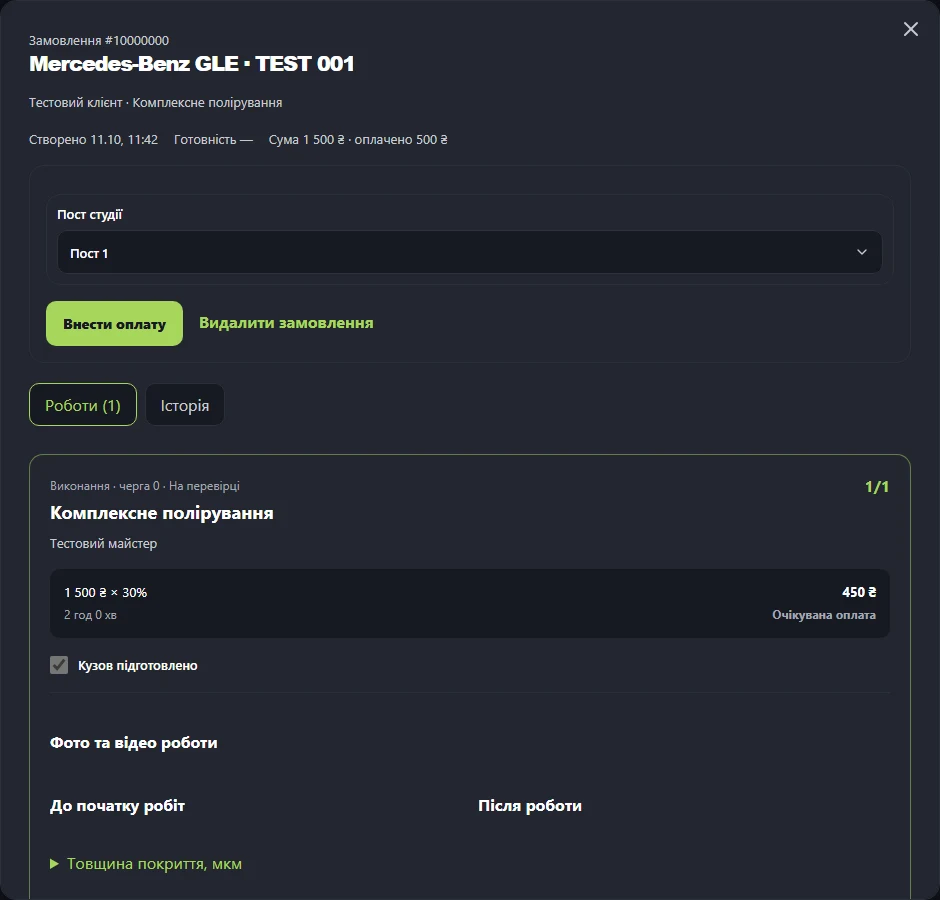
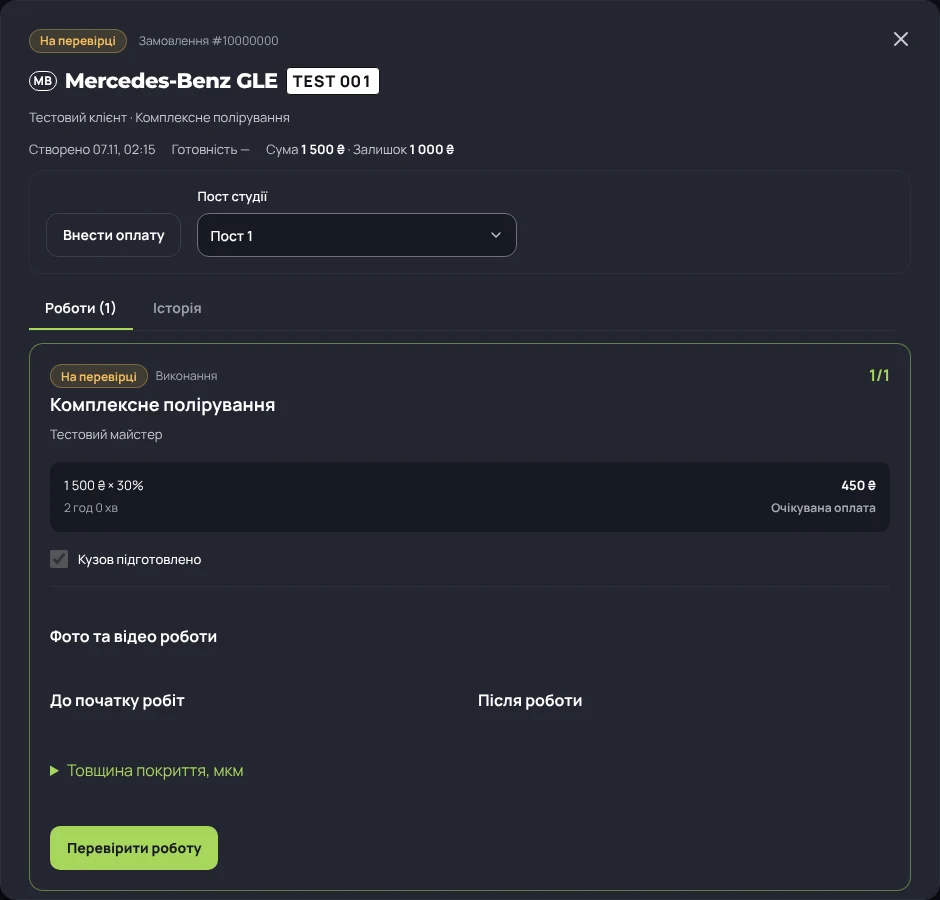
Landing: plan buttons aligned, demo screenshots retaken from the redesigned UI
Claude-Session: https://claude.ai/code/session_011PT1HPfmgt7wPQJTRGkDCR

diff --git a/src/landing.css b/src/landing.css
@@ -1,4 +1,4 @@
-.landing{background:var(--color-bg);color:var(--color-text);font:400 15px/1.65 Manrope,system-ui,sans-serif;--lp-accent:var(--color-accent)}.landing *{box-sizing:border-box;min-width:0}.landing a{color:inherit;text-decoration:none}.landing h1,.landing h2,.landing h3,.landing p,.landing figure{margin:0}.landing h1,.landing h2,.landing h3{color:var(--color-text);line-height:1.18}.landing h1{font-size:clamp(40px,4.6vw,66px);letter-spacing:-2.5px}.landing h2{font-size:clamp(29px,3vw,43px);letter-spacing:-1.3px}.landing h3{font-size:20px}.landing p{color:var(--color-text-secondary);overflow-wrap:anywhere}.lp-wrap{width:min(1280px,calc(100% - 64px));margin-inline:auto}.landing .lp-eyebrow{color:var(--color-accent);letter-spacing:1.7px;font-size:var(--text-xs);font-weight:700;text-transform:uppercase;margin-bottom:20px}.lp-header{position:sticky;top:0;z-index:30;background:#171a22f5;border-bottom:1px solid var(--color-border)}.lp-header-inner{display:flex;align-items:center;gap:24px;min-height:84px}.landing .lp-brand{display:flex;align-items:center;gap:12px;font-size:26px;font-weight:800;letter-spacing:-1px;margin-right:auto}.lp-brand i{width:10px;height:10px;flex-shrink:0;border-radius:50%;background:var(--color-accent);box-shadow:0 0 0 5px #a7d65c15}.lp-nav{display:flex;align-items:center;gap:22px;font-size:12px}.lp-nav>a{padding-block:10px}.lp-nav a:hover,.lp-secondary:hover{color:var(--color-accent)}.landing .lp-button{display:inline-flex;align-items:center;justify-content:center;gap:14px;background:var(--color-accent);color:var(--color-on-accent);border:1px solid var(--color-accent);border-radius:10px;padding:14px 20px;font-weight:800;line-height:1.5;min-height:50px;text-align:center}.landing .lp-button:hover{background:#b9e579}.landing .lp-button-small{font-size:12px;padding:11px 14px;min-height:44px}.landing button,.landing a{touch-action:manipulation}.landing .lp-menu-toggle{display:none;background:var(--color-surface);border:1px solid var(--color-border);color:var(--color-text);border-radius:10px;width:44px;height:44px;align-items:center;justify-content:center;padding:0}.lp-skip{position:fixed;top:-80px;left:16px;background:var(--color-accent);color:var(--color-on-accent)!important;padding:12px;z-index:100}.lp-skip:focus{top:12px}.lp-hero{display:grid;grid-template-columns:minmax(0,1fr) minmax(0,1.1fr);gap:50px;align-items:center;padding-block:88px}.landing .lp-lead{font-size:17px;line-height:1.8;margin-top:28px}.lp-actions{display:flex;flex-wrap:wrap;align-items:center;gap:22px;margin-top:30px}.lp-secondary{display:inline-flex;align-items:center;gap:10px;min-height:44px}.landing .lp-note{font-size:12px;margin-top:22px;line-height:1.8}.lp-product{border-radius:14px;border:1px solid var(--color-border);background:var(--color-surface);box-shadow:0 25px 75px #0003;overflow:hidden}.lp-product img{width:100%;height:auto;display:block}.lp-product figcaption{font-size:var(--text-xs);color:var(--color-text-secondary);padding:12px 18px}.lp-section{padding-block:65px;scroll-margin-top:100px}.lp-section>.ui-page-header{margin-bottom:32px}.lp-transfer{display:grid;grid-template-columns:1fr 1fr;gap:64px;background:var(--color-surface);border:1px solid var(--color-border);padding:40px;border-radius:16px}.lp-transfer h2+p{margin-top:24px}.lp-transfer ol{padding:0;margin:0;list-style:none;display:grid;gap:26px}.lp-transfer li{display:flex;gap:20px}.lp-transfer li>span{color:var(--color-accent)}.lp-transfer h3{font-size:17px;margin-bottom:8px}.lp-transfer li p{font-size:13px}.lp-comparison-result{display:flex;gap:12px;align-items:flex-start}.lp-comparison-result svg{color:var(--color-accent);flex-shrink:0;margin-top:4px}.lp-workflow-grid{display:grid;grid-template-columns:repeat(2,minmax(0,1fr));gap:24px}.lp-step{border:1px solid var(--color-border);border-radius:14px;background:var(--color-surface);overflow:hidden}.lp-step>div{padding:28px}.lp-step h3+p{margin-top:12px;font-size:14px}.lp-step>a{display:block;background:var(--color-bg);margin:0 22px;border:1px solid var(--color-border);border-bottom:0;border-radius:10px 10px 0 0;overflow:hidden}.lp-step img{width:100%;height:330px;object-fit:cover;object-position:top;display:block}.lp-roles{margin-top:24px;padding:28px;background:var(--color-surface);border:1px solid var(--color-border);border-radius:14px;display:grid;gap:20px}.lp-roles .ui-tabs{justify-content:flex-start}.landing .billing-plan{background:var(--color-surface);color:var(--color-text)}.landing .billing-plan p{margin:0}.landing .billing-plan h2{font-size:27px;letter-spacing:-.5px}.landing .billing-plan a.primary{display:block;background:var(--color-accent);color:var(--color-on-accent);text-align:center;border-radius:10px;padding:13px;font-weight:800}.lp-faq{display:grid;grid-template-columns:1fr 1.3fr;gap:65px;border-top:1px solid var(--color-border)}.lp-faq details{border-bottom:1px solid var(--color-border)}.lp-faq summary{cursor:pointer;display:flex;align-items:center;justify-content:space-between;gap:20px;padding:22px 0;font-weight:700;list-style:none}.lp-faq summary::-webkit-details-marker{display:none}.lp-faq summary svg{flex-shrink:0}.lp-faq details p{padding-bottom:24px;font-size:14px}.lp-final{padding:40px;border:1px solid #a7d65c33;background:var(--color-surface);border-radius:16px;display:flex;justify-content:space-between;align-items:center;gap:40px}.lp-final h2+p{margin-top:20px;max-width:600px}.lp-final>a{flex-shrink:0}.lp-footer{border-top:1px solid var(--color-border);padding-block:30px;display:flex;flex-wrap:wrap;gap:24px;align-items:center}.lp-footer p{margin-right:auto;font-size:12px}.landing a:focus-visible,.landing button:focus-visible,.landing summary:focus-visible{outline:2px solid var(--color-accent);outline-offset:4px}
+.landing{background:var(--color-bg);color:var(--color-text);font:400 15px/1.65 Manrope,system-ui,sans-serif;--lp-accent:var(--color-accent)}.landing *{box-sizing:border-box;min-width:0}.landing a{color:inherit;text-decoration:none}.landing h1,.landing h2,.landing h3,.landing p,.landing figure{margin:0}.landing h1,.landing h2,.landing h3{color:var(--color-text);line-height:1.18}.landing h1{font-size:clamp(40px,4.6vw,66px);letter-spacing:-2.5px}.landing h2{font-size:clamp(29px,3vw,43px);letter-spacing:-1.3px}.landing h3{font-size:20px}.landing p{color:var(--color-text-secondary);overflow-wrap:anywhere}.lp-wrap{width:min(1280px,calc(100% - 64px));margin-inline:auto}.landing .lp-eyebrow{color:var(--color-accent);letter-spacing:1.7px;font-size:var(--text-xs);font-weight:700;text-transform:uppercase;margin-bottom:20px}.lp-header{position:sticky;top:0;z-index:30;background:#171a22f5;border-bottom:1px solid var(--color-border)}.lp-header-inner{display:flex;align-items:center;gap:24px;min-height:84px}.landing .lp-brand{display:flex;align-items:center;gap:12px;font-size:26px;font-weight:800;letter-spacing:-1px;margin-right:auto}.lp-brand i{width:10px;height:10px;flex-shrink:0;border-radius:50%;background:var(--color-accent);box-shadow:0 0 0 5px #a7d65c15}.lp-nav{display:flex;align-items:center;gap:22px;font-size:12px}.lp-nav>a{padding-block:10px}.lp-nav a:hover,.lp-secondary:hover{color:var(--color-accent)}.landing .lp-button{display:inline-flex;align-items:center;justify-content:center;gap:14px;background:var(--color-accent);color:var(--color-on-accent);border:1px solid var(--color-accent);border-radius:10px;padding:14px 20px;font-weight:800;line-height:1.5;min-height:50px;text-align:center}.landing .lp-button:hover{background:#b9e579}.landing .lp-button-small{font-size:12px;padding:11px 14px;min-height:44px}.landing button,.landing a{touch-action:manipulation}.landing .lp-menu-toggle{display:none;background:var(--color-surface);border:1px solid var(--color-border);color:var(--color-text);border-radius:10px;width:44px;height:44px;align-items:center;justify-content:center;padding:0}.lp-skip{position:fixed;top:-80px;left:16px;background:var(--color-accent);color:var(--color-on-accent)!important;padding:12px;z-index:100}.lp-skip:focus{top:12px}.lp-hero{display:grid;grid-template-columns:minmax(0,1fr) minmax(0,1.1fr);gap:50px;align-items:center;padding-block:88px}.landing .lp-lead{font-size:17px;line-height:1.8;margin-top:28px}.lp-actions{display:flex;flex-wrap:wrap;align-items:center;gap:22px;margin-top:30px}.lp-secondary{display:inline-flex;align-items:center;gap:10px;min-height:44px}.landing .lp-note{font-size:12px;margin-top:22px;line-height:1.8}.lp-product{border-radius:14px;border:1px solid var(--color-border);background:var(--color-surface);box-shadow:0 25px 75px #0003;overflow:hidden}.lp-product img{width:100%;height:auto;display:block}.lp-product figcaption{font-size:var(--text-xs);color:var(--color-text-secondary);padding:12px 18px}.lp-section{padding-block:65px;scroll-margin-top:100px}.lp-section>.ui-page-header{margin-bottom:32px}.lp-transfer{display:grid;grid-template-columns:1fr 1fr;gap:64px;background:var(--color-surface);border:1px solid var(--color-border);padding:40px;border-radius:16px}.lp-transfer h2+p{margin-top:24px}.lp-transfer ol{padding:0;margin:0;list-style:none;display:grid;gap:26px}.lp-transfer li{display:flex;gap:20px}.lp-transfer li>span{color:var(--color-accent)}.lp-transfer h3{font-size:17px;margin-bottom:8px}.lp-transfer li p{font-size:13px}.lp-comparison-result{display:flex;gap:12px;align-items:flex-start}.lp-comparison-result svg{color:var(--color-accent);flex-shrink:0;margin-top:4px}.lp-workflow-grid{display:grid;grid-template-columns:repeat(2,minmax(0,1fr));gap:24px}.lp-step{border:1px solid var(--color-border);border-radius:14px;background:var(--color-surface);overflow:hidden}.lp-step>div{padding:28px}.lp-step h3+p{margin-top:12px;font-size:14px}.lp-step>a{display:block;background:var(--color-bg);margin:0 22px;border:1px solid var(--color-border);border-bottom:0;border-radius:10px 10px 0 0;overflow:hidden}.lp-step img{width:100%;height:330px;object-fit:cover;object-position:top;display:block}.lp-roles{margin-top:24px;padding:28px;background:var(--color-surface);border:1px solid var(--color-border);border-radius:14px;display:grid;gap:20px}.lp-roles .ui-tabs{justify-content:flex-start}.landing .billing-plan{background:var(--color-surface);color:var(--color-text)}.landing .billing-plan p{margin:0}.landing .billing-plan h2{font-size:27px;letter-spacing:-.5px}.landing .billing-plan a.primary{background:var(--color-accent);color:var(--color-on-accent)}.lp-faq{display:grid;grid-template-columns:1fr 1.3fr;gap:65px;border-top:1px solid var(--color-border)}.lp-faq details{border-bottom:1px solid var(--color-border)}.lp-faq summary{cursor:pointer;display:flex;align-items:center;justify-content:space-between;gap:20px;padding:22px 0;font-weight:700;list-style:none}.lp-faq summary::-webkit-details-marker{display:none}.lp-faq summary svg{flex-shrink:0}.lp-faq details p{padding-bottom:24px;font-size:14px}.lp-final{padding:40px;border:1px solid #a7d65c33;background:var(--color-surface);border-radius:16px;display:flex;justify-content:space-between;align-items:center;gap:40px}.lp-final h2+p{margin-top:20px;max-width:600px}.lp-final>a{flex-shrink:0}.lp-footer{border-top:1px solid var(--color-border);padding-block:30px;display:flex;flex-wrap:wrap;gap:24px;align-items:center}.lp-footer p{margin-right:auto;font-size:12px}.landing a:focus-visible,.landing button:focus-visible,.landing summary:focus-visible{outline:2px solid var(--color-accent);outline-offset:4px}
 .lp-section-nav{display:none;position:fixed;right:16px;top:50%;transform:translateY(-50%);z-index:35;padding:5px;border:1px solid var(--color-border);border-radius:28px;background:#171a22d9;backdrop-filter:blur(10px)}.lp-section-nav button{position:relative;display:grid;place-items:center;width:32px;min-height:40px;padding:0;border:0;background:transparent;cursor:pointer}.lp-section-nav i{width:8px;height:8px;border-radius:50%;background:#6d7280;transition:width .18s,height .18s,background .18s}.lp-section-nav button[aria-current=true] i{width:12px;height:12px;background:var(--color-accent)}.lp-section-nav button:hover i{background:#c7cad1}.lp-nav-label{position:absolute;right:42px;white-space:nowrap;background:#171a22ee;border:1px solid var(--color-border);color:var(--color-text-secondary);border-radius:7px;padding:5px 10px;opacity:0;pointer-events:none;font-size:12px}.lp-section-nav button:hover .lp-nav-label,.lp-section-nav button:focus-visible .lp-nav-label{opacity:1}
 @media(min-width:1024px){.landing{padding-right:64px}.lp-section-nav{display:grid}}
 @media(max-width:1200px){.lp-nav{gap:13px}.lp-header-inner{gap:16px}.lp-wrap{width:calc(100% - 48px)}.lp-hero{gap:30px}.lp-transfer{gap:32px;padding:28px}}
